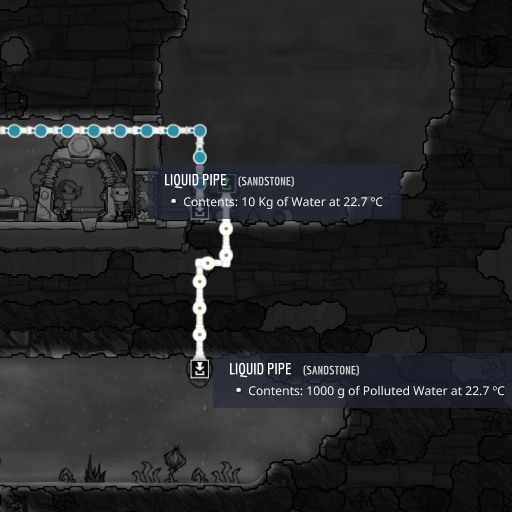
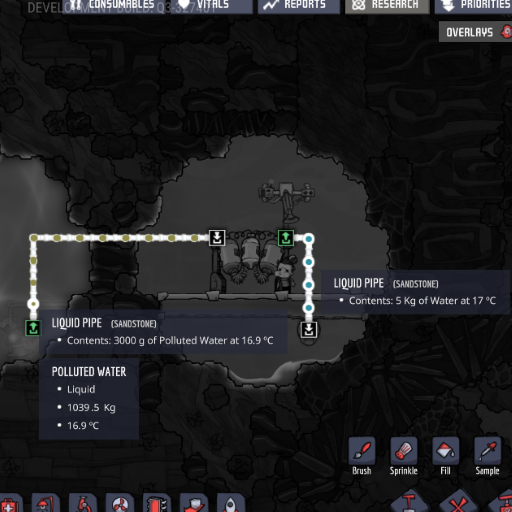
NoFixedTemp and Inverse Electrolyzer Steam ready

diff --git a/Source/InverseElectrolyzer/InverseElectrolyzer.cs b/Source/InverseElectrolyzer/InverseElectrolyzer.cs
@@ -93,40 +93,49 @@ public class InverseElectrolyzer: KMonoBehaviour, ISaveLoadable, ISecondaryInput
 		bool value = false;
 		if (this.operational.IsOperational)
 		{
-			ConduitFlow flowManager = Conduit.GetFlowManager(this.portInfo.conduitType);
+			ConduitFlow gasFlow = Conduit.GetFlowManager(this.portInfo.conduitType);
 
-			ConduitFlow.ConduitContents contentsI1 = flowManager.GetContents(this.inputCell1);
-			ConduitFlow.ConduitContents contentsI2 = flowManager.GetContents(this.inputCell2);
+			ConduitFlow.ConduitContents contentsI1 = gasFlow.GetContents(this.inputCell1);
+			ConduitFlow.ConduitContents contentsI2 = gasFlow.GetContents(this.inputCell2);
 
-			//int num = (contents.element != this.filteredElem) ? this.outputCell : this.filteredCell;
-			ConduitFlow.ConduitContents contentsO = flowManager.GetContents(this.outputCell);
-			if (contentsI1.mass > 0.111999989f
-				&& contentsI2.mass > 0.888f
-				&& contentsO.mass <= 0f)
+            //Debug.Log("contentsI1.mass: " + contentsI1.mass);
+            //Debug.Log("contentsI2.mass: " + contentsI2.mass);
+
+            //int num = (contents.element != this.filteredElem) ? this.outputCell : this.filteredCell;
+            ConduitFlow.ConduitContents contentsO = gasFlow.GetContents(this.outputCell);
+			
+			if (contentsI1.element != SimHashes.Hydrogen || contentsI2.element != SimHashes.Oxygen)
 			{
-				if (contentsI1.element != SimHashes.Hydrogen || contentsI2.element != SimHashes.Oxygen)
+				base.Trigger((int)GameHashes.DoBuildingDamage, new BuildingHP.DamageSourceInfo
 				{
-					base.Trigger(-794517298, new BuildingHP.DamageSourceInfo
-					{
-						damage = 1,
-						source = STRINGS.BUILDINGS.DAMAGESOURCES.BAD_INPUT_ELEMENT,
-						popString = STRINGS.UI.GAMEOBJECTEFFECTS.DAMAGE_POPS.WRONG_ELEMENT
-					});
-					flowManager.RemoveElement(this.inputCell1, 0.111999989f);
-					flowManager.RemoveElement(this.inputCell2, 0.888f);
-				}
-				else
-				{
-					value = true;
-					//float num2 = flowManager.AddElement(num, contents.element, contents.mass, contents.temperature, contents.diseaseIdx, contents.diseaseCount);
-					float num2 = flowManager.AddElement(this.outputCell, SimHashes.Steam, 1f, 393.15f, contentsI1.diseaseIdx, 0);
-					if (num2 > 0f)
-					{
-						flowManager.RemoveElement(this.inputCell1, 0.111999989f);
-						flowManager.RemoveElement(this.inputCell2, 0.888f);
-					}
-				}
+					damage = 1,
+					source = STRINGS.BUILDINGS.DAMAGESOURCES.BAD_INPUT_ELEMENT,
+					popString = STRINGS.UI.GAMEOBJECTEFFECTS.DAMAGE_POPS.WRONG_ELEMENT
+				});
+				gasFlow.RemoveElement(this.inputCell1, 0.111999989f);
+				gasFlow.RemoveElement(this.inputCell2, 0.888f);
 			}
+			else
+			{
+                if (contentsI1.mass > 0.111999989f
+                    && contentsI2.mass > 0.888f
+                    && contentsO.mass <= 0f)
+                {
+                    value = true;
+                    //float num2 = flowManager.AddElement(num, contents.element, contents.mass, contents.temperature, contents.diseaseIdx, contents.diseaseCount);
+                    float outputTemperature = contentsI1.temperature * 0.111999989f + contentsI2.temperature * 0.888f;
+                    //Debug.Log("outputTemperature: " + outputTemperature);
+                    ConduitFlow liquidFlow = Conduit.GetFlowManager(ConduitType.Liquid);
+                    float num2 = liquidFlow.AddElement(this.outputCell, SimHashes.Water, 1f, outputTemperature, contentsI1.diseaseIdx, 0);
+                    if (num2 > 0f)
+                    {
+                        gasFlow.RemoveElement(this.inputCell1, 0.111999989f);
+                        gasFlow.RemoveElement(this.inputCell2, 0.888f);
+                    }
+                }
+                
+			}
+			
 		}
 		this.operational.SetActive(value, false);
 	}

diff --git a/Source/InverseElectrolyzer/InverseElectrolyzerConfig.cs b/Source/InverseElectrolyzer/InverseElectrolyzerConfig.cs
@@ -11,9 +11,6 @@ public class InverseElectrolyzerConfig : IBuildingConfig
 {
 	public const string ID = "InverseElectrolyzer";
 
-	private const float CO2_CONSUMPTION_RATE = 0.3f;
-
-	private const float H2O_CONSUMPTION_RATE = 1f;
 
 	private static readonly LogicPorts.Port[] INPUT_PORTS = new LogicPorts.Port[1]
 	{
@@ -39,9 +36,9 @@ public class InverseElectrolyzerConfig : IBuildingConfig
 		buildingDef.RequiresPowerInput = true;
 		buildingDef.EnergyConsumptionWhenActive = 120f;
 		buildingDef.ExhaustKilowattsWhenActive = 0f;
-		buildingDef.SelfHeatKilowattsWhenActive = 4f;
+		buildingDef.SelfHeatKilowattsWhenActive = 1f;
 		buildingDef.InputConduitType = ConduitType.Gas;
-		buildingDef.OutputConduitType = ConduitType.Gas;
+		buildingDef.OutputConduitType = ConduitType.Liquid;
 		buildingDef.ViewMode = OverlayModes.GasConduits.ID;
 		buildingDef.MaterialCategory = MATERIALS.ALL_METALS;
 		buildingDef.AudioCategory = "HollowMetal";
@@ -64,7 +61,7 @@ public class InverseElectrolyzerConfig : IBuildingConfig
 		storage.SetDefaultStoredItemModifiers(Storage.StandardSealedStorage);
 
 		InverseElectrolyzer airFilter = go.AddOrGet<InverseElectrolyzer>();
-		airFilter.filterTag = GameTagExtensions.Create(SimHashes.Hydrogen);
+		airFilter.filterTag = GameTagExtensions.Create(SimHashes.Oxygen);
 		airFilter.portInfo = this.secondaryInputPort;
 		
 	}

diff --git a/Source/InverseElectrolyzer/InverseElectrolyzerMod.cs b/Source/InverseElectrolyzer/InverseElectrolyzerMod.cs
@@ -15,8 +15,8 @@ namespace InverseElectrolyzerMod
 			//Debug.Log(" === GeneratedBuildings Prefix === " + InverseElectrolyzerConfig.ID);
 
 			Strings.Add("STRINGS.BUILDINGS.PREFABS.INVERSEELECTROLYZER.NAME", "Inverse Electrolyzer");
-			Strings.Add("STRINGS.BUILDINGS.PREFABS.INVERSEELECTROLYZER.DESC", "Hydrogen and oxygen goes in, water in the form of steam comes out");
-			Strings.Add("STRINGS.BUILDINGS.PREFABS.INVERSEELECTROLYZER.EFFECT", "Converts " + STRINGS.UI.FormatAsLink("Oxygen", "OXYGEN") + " and " + STRINGS.UI.FormatAsLink("Hydrogen", "HYDROGEN") + " into " + STRINGS.UI.FormatAsLink("Steam", "STEAM") + ".");
+			Strings.Add("STRINGS.BUILDINGS.PREFABS.INVERSEELECTROLYZER.DESC", "Hydrogen and oxygen goes in, water comes out");
+			Strings.Add("STRINGS.BUILDINGS.PREFABS.INVERSEELECTROLYZER.EFFECT", "Converts " + STRINGS.UI.FormatAsLink("Oxygen", "OXYGEN") + " and " + STRINGS.UI.FormatAsLink("Hydrogen", "HYDROGEN") + " into " + STRINGS.UI.FormatAsLink("Water", "WATER") + ".");
 
 			ModUtil.AddBuildingToPlanScreen("Utilities", InverseElectrolyzerConfig.ID);
 
